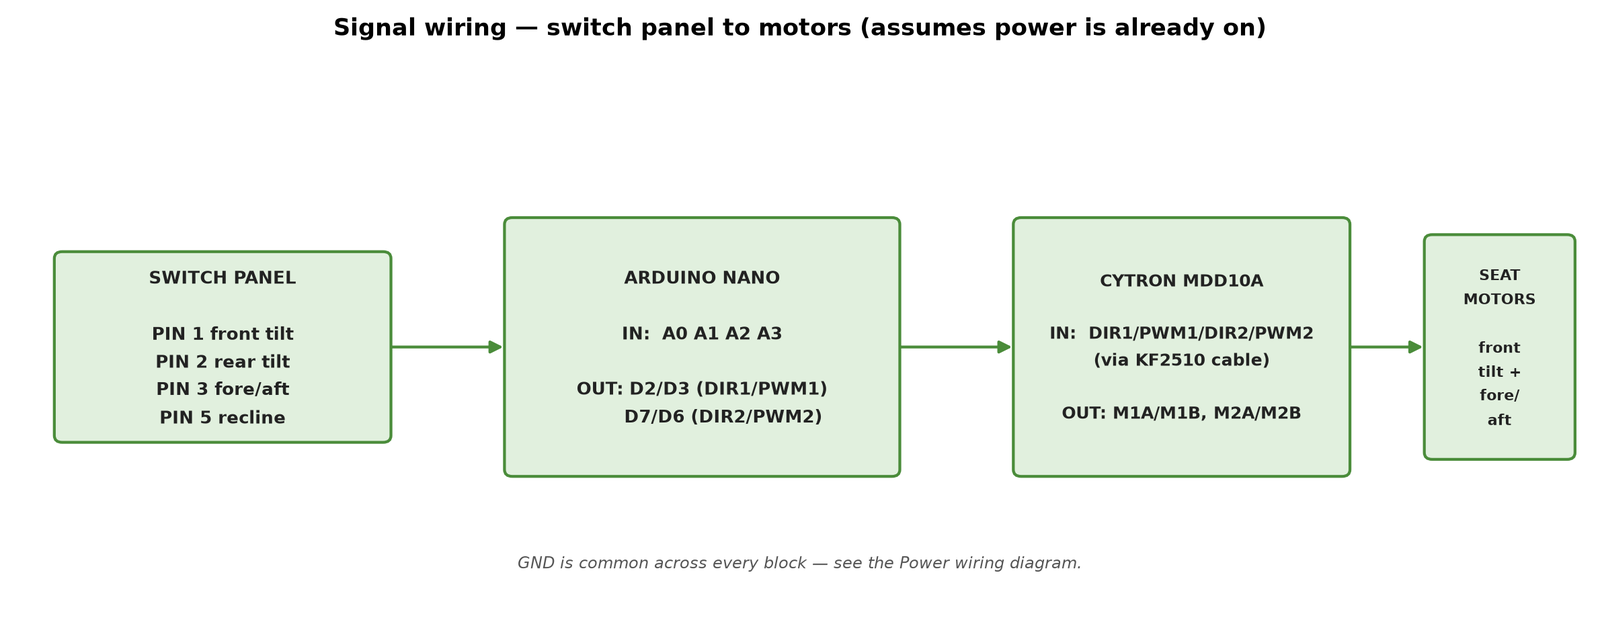
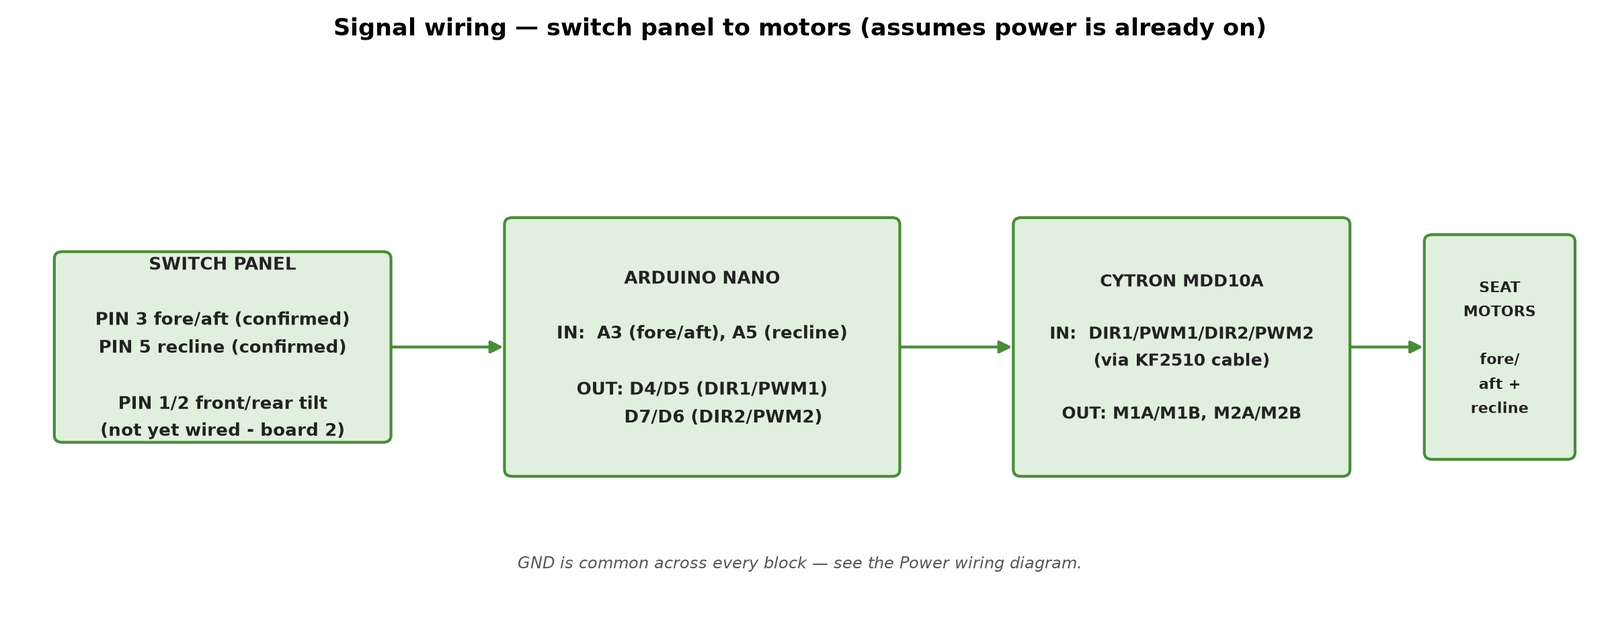
Correct axis names/pins and resolve the PIN 6 mystery from real hardware
Confirmed from the user's actual working code and wiring:
- fore_aft ("seat base") is on Nano A3, not A2 as previously guessed
- recline ("backrest") is on Nano A5, not A3 as previously guessed
- PIN 6 is confirmed NOT connected to anything - the long-standing
  "+5V pull-up supply" hypothesis was wrong. The Nano reads the switch
  panel using its own internal INPUT_PULLUP instead.
- Switch panel PIN 4 = GND, PIN 5 = recline -> Nano A5, both confirmed
  directly, matching what was already documented/just corrected.

front_tilt and rear_tilt remain unbuilt (second Cytron board), still
sharing A1/A2 with the specific pairing still TBD - firmware and docs
now say so explicitly rather than guessing.

Updates: seat_control_main.ino (axis names/pins, range-based threshold
checks matching the user's proven logic, INPUT_PULLUP), diagnostic
sketch (correct pins, INPUT_PULLUP), and every diagram/text reference
across the README - Voltage domains, Confirmed control mapping,
Inferred signal encoding, the full pinout schematic, both simpler
power/signal diagrams, the mermaid diagram, Firmware table, Vehicle
integration checklist, and Next Steps.

diff --git a/README.md b/README.md
@@ -5,9 +5,9 @@ interface for 12V seat motors in a different vehicle. This document tracks what'
 on the OEM hardware so far, the wiring scheme inferred from it, and what's still open before any
 12V motor is connected.
 
-> **Status:** reverse-engineering in progress. The wiring scheme below is an interpretation of the
-> photographed hardware, not yet confirmed end-to-end with a multimeter — treat resistor values and
-> PIN 6's function as working hypotheses until verified.
+> **Status:** reverse-engineering in progress, with two axes (`fore_aft`, `recline`) confirmed
+> working on real hardware. The remaining wiring is an interpretation of the photographed hardware,
+> not yet confirmed end-to-end — treat resistor values as working hypotheses until verified.
 
 ## Voltage domains
 
@@ -17,15 +17,16 @@ directly:
 | Domain | Voltage | Covers |
 |---|---|---|
 | **Motor power** | 12V (vehicle supply) | Cytron `B+`/`B-` terminals → seat motors only |
-| **Logic** | 5V | Nano, its ADC reference, and (per the PIN 6 hypothesis) the switch panel's pull-up supply |
+| **Logic** | 5V | Nano and its ADC reference |
 
 The car is a 12V system, but the Nano and the switch panel's signal lines are **not** — the Nano's
-ADC reads 0–1023 against a 5V reference, and the confirmed PIN 1 idle reading of ~1023 only makes
-sense if the pull-up feeding that line is ~5V. Feeding 12V into a Nano analog/digital pin or into
-the switch panel's signal lines directly will exceed the pin's rating and damage it. The 5V rail is
+ADC reads 0–1023 against a 5V reference. Feeding 12V into a Nano analog/digital pin or into the
+switch panel's signal lines directly will exceed the pin's rating and damage it. The 5V rail is
 **derived from the 12V supply through a buck converter** (module marked `C1205003` — see [Logic
 supply](#vehicle-integration-checklist) below) — it isn't a separate source you wire in
-independently.
+independently. The switch panel's own pull-up doesn't come from this rail at all: the Nano reads
+its analog pins with `INPUT_PULLUP` (its own internal pull-up resistor), confirmed working —
+switch panel PIN 6 turned out not to be needed and isn't connected to anything.
 
 ## Hardware inventory
 
@@ -97,8 +98,8 @@ drives two motors — see [Next Steps](#next-steps) for the implication on a 4-a
 
 **Resolved:** the KF2510 cable's 5 bare leads have been traced and landed on the Nano via the
 HW-152 terminal adapter, matching the assignment in
-[`seat_control_main.ino`](firmware/seat_control_main/seat_control_main.ino) — front_tilt: `D4`=DIR1
-(black), `D5`=PWM1 (red); fore_aft: `D7`=DIR2 (white), `D6`=PWM2 (yellow); GND=orange. Confirmed
+[`seat_control_main.ino`](firmware/seat_control_main/seat_control_main.ino) — fore_aft: `D4`=DIR1
+(black), `D5`=PWM1 (red); recline: `D7`=DIR2 (white), `D6`=PWM2 (yellow); GND=orange. Confirmed
 from both ends, not assumed from a fixed wire-colour order — this specific cable turned out to be
 plugged in reversed relative to the Cytron's own `DIR1/PWM1/DIR2/PWM2/GND` silkscreen order, which
 is why cross-checking both ends mattered.
@@ -126,18 +127,26 @@ successfully decoded PIN 1 signals (10-bit ADC, 0–1023):
 The large gap between neutral (~1023, i.e. pulled high) and either pressed state (~27–41, pulled
 sharply low) indicates a pull-up on the line with a low-value resistor switched in to ground on
 each button press — different resistors per direction, which is exactly the two repeated SMD
-values (820 Ω / 392 Ω) visible on the panel.
+values (820 Ω / 392 Ω) visible on the panel. That pull-up is the Nano's own internal one
+(`INPUT_PULLUP`), confirmed working — not an external 5V feed (see [Voltage
+domains](#voltage-domains)).
+
+PIN 3 (fore_aft) and PIN 5 (recline) have since been independently confirmed on real hardware,
+with very similar but not identical values — backward ~25–30, forward ~38–43. The small difference
+from PIN 1's numbers above is expected: different axes' resistors and the switch to
+`INPUT_PULLUP` both shift the exact thresholds slightly, which is exactly why each axis needs
+measuring rather than assumed identical.
 
 ## Confirmed control mapping
 
 | Pin | Function | Status |
 |---|---|---|
-| PIN 1 | Front seat-base tilt | Confirmed (ADC values above) |
-| PIN 2 | Rear seat-base tilt | Identified, ADC values not yet measured |
-| PIN 3 | Entire seat forward/backward movement | Identified, ADC values not yet measured |
+| PIN 1 | Front seat-base tilt | Identified (ADC values above); axis not yet wired to a driver |
+| PIN 2 | Rear seat-base tilt | Identified, ADC values not yet measured; axis not yet wired to a driver |
+| PIN 3 | Entire seat forward/backward movement (`fore_aft`) | **Confirmed working** — Nano `A3` |
 | PIN 4 | Common reference (ground) | Confirmed |
-| PIN 5 | Backrest recline adjustment | Identified, ADC values not yet measured |
-| PIN 6 | Unknown | **Hypothesis:** shared +5V (logic domain, *not* 12V — see [Voltage domains](#voltage-domains)) pull-up supply for the four resistor-ladder inputs — not yet measured |
+| PIN 5 | Backrest recline adjustment (`recline`) | **Confirmed working** — Nano `A5` |
+| PIN 6 | Unused | **Confirmed not connected to anything** — not needed; the Nano's internal pull-up (`INPUT_PULLUP`) does this job instead |
 
 The panel's mating connector has 12 cavities (see [hardware inventory](#hardware-inventory)); PINs
 1–6 above are the ones identified so far. The remaining 6 cavities haven't been probed — they may
@@ -152,11 +161,9 @@ on the panel plus the PIN 1 readings above. This is inferred from photos, not co
 continuity testing — verify with a multimeter before relying on it:
 
 ```
-                 PIN 6 (+5V?, proposed pull-up supply)
+         Nano internal pull-up (INPUT_PULLUP)
                          |
-                    [pull-up resistor, value TBD]
-                         |
-Nano ADC pin  <----------+----------  e.g. PIN 1 (front tilt)
+Nano ADC pin  <----------+----------  e.g. PIN 3 (fore_aft)
                          |
               +----------+----------+
               |                     |
@@ -169,6 +176,9 @@ Nano ADC pin  <----------+----------  e.g. PIN 1 (front tilt)
                          |
                  PIN 4 (GND, common return)
 ```
+
+Confirmed: the pull-up is internal to the Nano, not an external 5V feed — PIN 6 isn't connected to
+anything (see [Confirmed control mapping](#confirmed-control-mapping)).
 
 Each of the four movement pins (1, 2, 3, 5) is expected to follow this same pattern: idle high
 (~1023), pulled to a low-but-distinct ADC value depending on which of the two direction buttons for
@@ -211,23 +221,21 @@ A pin-level Mermaid version of the same system, for reference:
 ```mermaid
 flowchart LR
     subgraph SWITCH["Preh switch panel (13250-757/0200)"]
-        P1["PIN 1 — front tilt"]
-        P2["PIN 2 — rear tilt"]
+        P1["PIN 1 — front tilt<br/>(not yet wired to a driver)"]
+        P2["PIN 2 — rear tilt<br/>(not yet wired to a driver)"]
         P3["PIN 3 — fore/aft"]
         P5["PIN 5 — recline"]
         P4["PIN 4 — GND"]
-        P6["PIN 6 — +5V? (unconfirmed)"]
+        P6["PIN 6 — confirmed unused"]
     end
 
     subgraph NANO["Arduino Nano (via HW-152 terminal adapter)"]
-        A0["A0"]
-        A1["A1"]
-        A2["A2"]
-        A3["A3"]
+        A3n["A3"]
+        A5n["A5"]
         GND1["GND"]
         FIVEV["5V"]
-        CTRL1["D4/D5 — DIR1/PWM1 (front_tilt)"]
-        CTRL2["D7/D6 — DIR2/PWM2 (fore_aft)"]
+        CTRL1["D4/D5 — DIR1/PWM1 (fore_aft)"]
+        CTRL2["D7/D6 — DIR2/PWM2 (recline)"]
     end
 
     subgraph DRV1["Cytron MDD10A #1 (drives 2 of 4 axes)"]
@@ -236,19 +244,16 @@ flowchart LR
         BSUP["B+ / B-"]
     end
 
-    P1 --> A0
-    P2 --> A1
-    P3 --> A2
-    P5 --> A3
+    P3 --> A3n
+    P5 --> A5n
     P4 --> GND1
-    REG -. proposed .-> P6
     REG -. proposed .-> FIVEV
 
     CTRL1 --> M1
     CTRL2 --> M2
 
-    MOT1["Seat motor — front tilt"]
-    MOT2["Seat motor — fore/aft"]
+    MOT1["Seat motor — fore_aft (seat base)"]
+    MOT2["Seat motor — recline (backrest)"]
     M1 --> MOT1
     M2 --> MOT2
 
@@ -262,7 +267,7 @@ flowchart LR
     BSUP --> M1
     BSUP --> M2
 
-    DRV2["Cytron MDD10A #2 (needed for remaining 2 axes:<br/>rear tilt on D2/D3, recline on D8/D9)<br/>— not yet built"]
+    DRV2["Cytron MDD10A #2 (needed for remaining 2 axes:<br/>front tilt and rear tilt on D2/D3 and D8/D9,<br/>exact pairing TBD)<br/>— not yet built"]
     CTRL1 -.-> DRV2
 ```
 
@@ -333,11 +338,12 @@ this use case — see the module's manual for the full function list if reconsid
 
 | Sketch | Purpose |
 |---|---|
-| [`firmware/diagnostic_read_switch_panel`](firmware/diagnostic_read_switch_panel/diagnostic_read_switch_panel.ino) | Prints raw ADC values for all four movement pins over serial. Use this to fill in the still-missing PIN 2/3/5 measurements and to sanity-check the PIN 6 hypothesis. |
-| [`firmware/seat_control_main`](firmware/seat_control_main/seat_control_main.ino) | Draft control loop: reads all four axes, drives the Cytron board(s), and stops a motor if it's held on past an 8-second safety cutoff. Has no role in power management — the [power latch](#power-latch) handles wake/auto-off entirely in hardware. Thresholds are copied from the PIN 1 measurement and are placeholders for the other three axes until measured. |
+| [`firmware/diagnostic_read_switch_panel`](firmware/diagnostic_read_switch_panel/diagnostic_read_switch_panel.ino) | Prints raw ADC values for `fore_aft`/`recline` (confirmed working) plus the two unconfirmed `front_tilt`/`rear_tilt` pins (`A1`, `A2`) over serial. Use it once the second Cytron board exists to find out which of `A1`/`A2` is which axis. |
+| [`firmware/seat_control_main`](firmware/seat_control_main/seat_control_main.ino) | Control loop: reads all four axes, drives the Cytron board(s), and stops a motor if it's held on past an 8-second safety cutoff. Has no role in power management — the [power latch](#power-latch) handles wake/auto-off entirely in hardware. `fore_aft`/`recline` thresholds are confirmed working; `front_tilt`/`rear_tilt` copy the same placeholder values until that board exists and gets measured. |
 
-Neither sketch has been run against real hardware yet — the diagnostic sketch is the next thing to
-flash once PIN 6 is wired up per the hypothesis above.
+`fore_aft` and `recline` are confirmed running on real hardware, using the Nano's internal
+`INPUT_PULLUP` rather than an external 5V feed. `front_tilt`/`rear_tilt` are still inert pending
+the second Cytron board.
 
 ## Vehicle integration checklist
 
@@ -349,7 +355,8 @@ Not started. Before any of this touches a vehicle:
   through the [power latch](#power-latch) relay, so the controller draws no standby current between
   uses despite being fed from a permanent source.
 - **Logic supply** — sourced: a 12V→5V buck converter (module marked `C1205003`, 15W, rated 5V/3A
-  output — comfortably more than the Nano plus the switch panel's PIN 6 pull-up will ever draw). It
+  output — comfortably more than the Nano will ever draw; the switch panel doesn't need any of this
+  rail, since it's read via the Nano's own internal pull-up, not an external 5V feed). It
   comes with a pre-attached micro-USB cable meant for powering the Nano through its USB port — for
   a permanent vehicle install, **don't use that USB connection**. A USB plug isn't rated for
   continuous vibration and is one more failure point with no benefit here. Instead: cut off (or
@@ -375,8 +382,8 @@ Not started. Before any of this touches a vehicle:
 
 ## Next Steps
 
-- Flash `diagnostic_read_switch_panel` and measure PINs 2, 3, and 5 (same neutral/up/down method
-  used for PIN 1), and check whether tying PIN 6 to 5V is actually needed for sane readings.
+- Once the second Cytron board exists, flash `diagnostic_read_switch_panel` and measure PIN 1
+  (`front_tilt`) and PIN 2 (`rear_tilt`) to find out which of `A1`/`A2` is which axis.
 - Confirm the two SMD resistor values (silkscreened `8200` / `3920`) by direct measurement rather
   than reading the printed code from photos.
 - Probe the 6 unaccounted-for cavities on the 12-position connector — confirm whether they're
@@ -385,9 +392,11 @@ Not started. Before any of this touches a vehicle:
   needed before wiring the pigtail to the Nano.
 - ~~KF2510 cable wire-to-pin mapping~~ — done, confirmed on both ends: `GND`→orange, `D4`/`DIR1`→
   black, `D5`/`PWM1`→red, `D6`/`PWM2`→yellow, `D7`/`DIR2`→white (see [Proposed system
-  wiring](#proposed-system-wiring)). Note this moved front_tilt off `D2`/`D3` — those are now
-  reserved for rear_tilt on the second Cytron board instead, to avoid a pin clash.
-- Update the placeholder thresholds in `seat_control_main` once real PIN 2/3/5 values are in.
+  wiring](#proposed-system-wiring)). This is the `fore_aft`/`recline` pair, not `front_tilt` as
+  earlier assumed — `front_tilt`/`rear_tilt` are unbuilt, on `D2`/`D3` and `D8`/`D9` for whenever
+  the second Cytron board happens.
+- Update the placeholder `front_tilt`/`rear_tilt` thresholds in `seat_control_main` once real
+  values are measured on the second Cytron board.
 - Source a second Cytron MDD10A (or equivalent dual H-bridge) — one board only covers 2 of the 4
   seat motors.
 - Cut off the buck converter's micro-USB plug and wire its `Y`/`B` output leads directly to the
